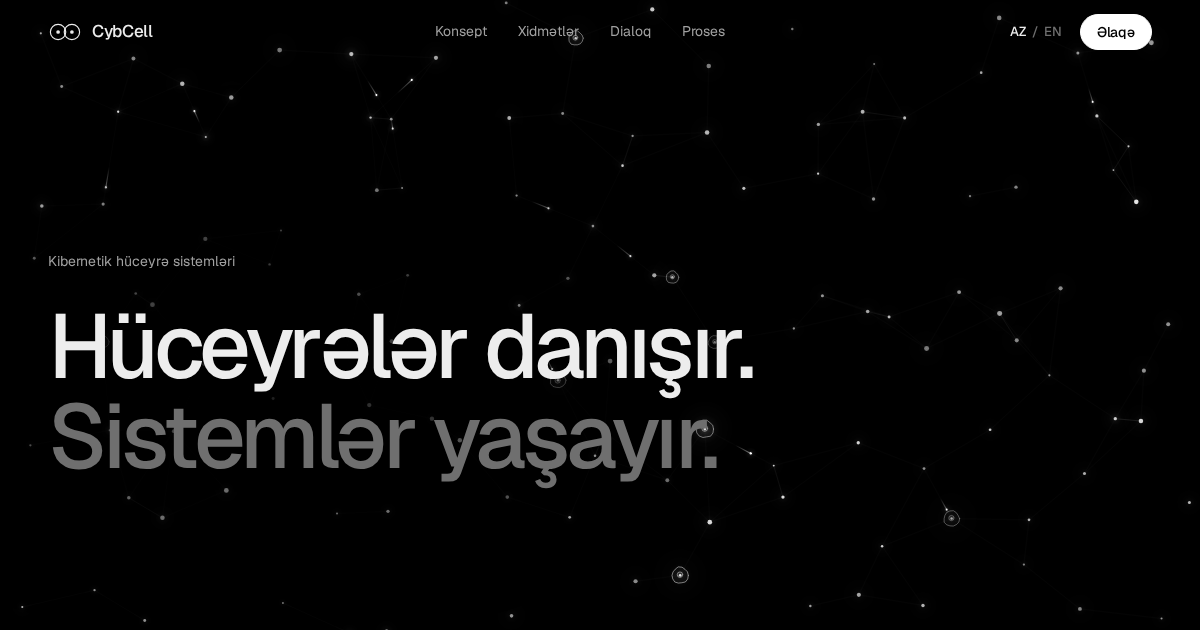
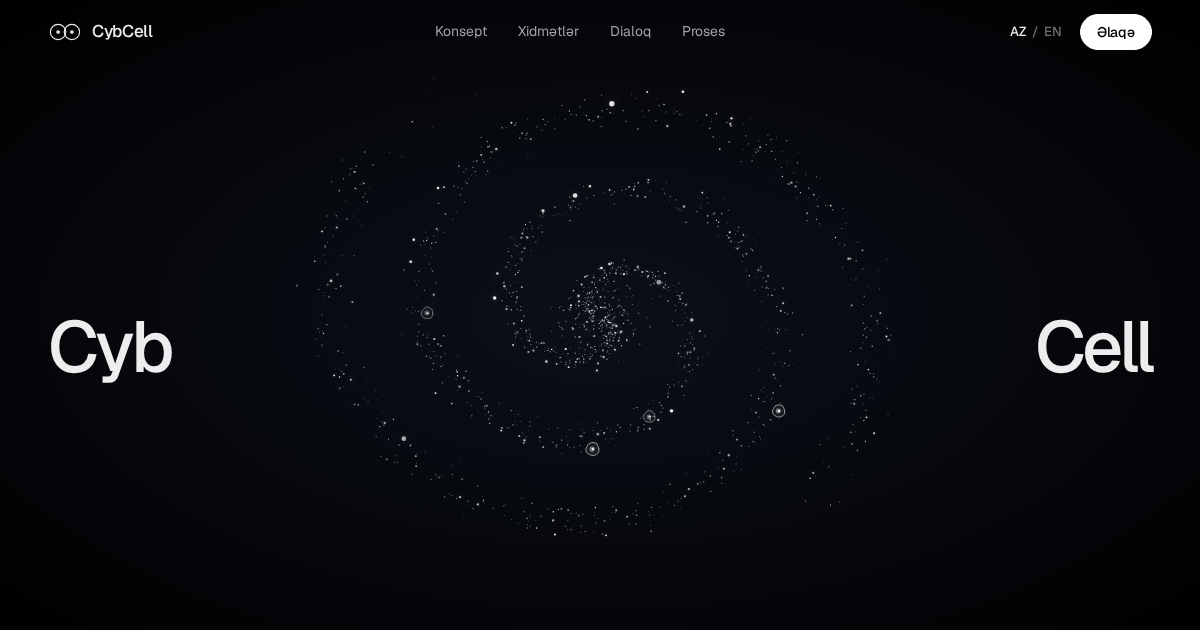
Giriş: hüceyrələrdən yaranan spiral, iki tərəfdə Cyb və Cell
- Hero səhnəsi: hüceyrələr və 1500 nöqtəlik "ulduz tozu" yavaş fırlanan
  iki qollu spiral qurur; sürüşdürəndə spiral dağılıb koloniyaya keçir
- Başlıq ekranın iki tərəfində: solda "Cyb", sağda "Cell"
- Arxa fonda dərin, azca göyümtül qara parıltı

Claude-Session: https://claude.ai/code/session_01Bo7EnscsKfWVouZf1NahH9

diff --git a/src/styles.css b/src/styles.css
@@ -47,7 +47,8 @@ html {
 
 body {
   margin: 0;
-  background: var(--bg);
+  /* A faint deep-space glow behind the colony; opaque sections cover it later. */
+  background: radial-gradient(ellipse 70% 70% at 50% 50%, #0b0f18 0%, #06080d 55%, #000 100%) fixed var(--bg);
   color: var(--text);
   font-family: var(--f-sans);
   font-size: 1rem;
@@ -327,6 +328,7 @@ html[lang='en'] .lang [data-l='en'] {
 
 /* ------------------------------------------------------------------- hero */
 
+/* The colony turns in the middle; the name stands on either side of it. */
 .hero {
   position: relative;
   display: grid;
@@ -334,54 +336,77 @@ html[lang='en'] .lang [data-l='en'] {
   min-height: 100svh;
   padding-top: var(--nav-h);
 }
-.hero::before {
-  content: '';
-  position: absolute;
-  inset: 0;
-  z-index: -1;
-  background: radial-gradient(ellipse 58% 62% at 22% 58%, rgba(0, 0, 0, 0.92), rgba(0, 0, 0, 0) 72%);
+.hero__title {
+  position: relative;
+  align-self: center;
+  display: flex;
+  justify-content: space-between;
+  align-items: center;
+  width: 100%;
+  max-width: 1480px;
+  margin-inline: auto;
+  padding-inline: var(--gutter);
+  font-weight: 500;
+  font-size: clamp(3rem, 1.5rem + 4vw, 6rem);
+  line-height: 1;
+  letter-spacing: -0.045em;
   pointer-events: none;
 }
-.hero__inner {
-  align-self: center;
-  display: grid;
-  justify-items: start;
-  gap: 28px;
-  padding-top: 6vh;
+.hero__word {
+  opacity: 0;
+  animation: word-in 1.6s var(--ease) 0.9s forwards;
 }
-.hero__title {
-  display: grid;
-  font-weight: 500;
-  font-size: var(--t-hero);
-  line-height: 1;
-  letter-spacing: -0.05em;
-  text-wrap: balance;
+.hero__word--r {
+  animation-delay: 1.1s;
+}
+.visually-hidden {
+  position: absolute;
+  width: 1px;
+  height: 1px;
+  overflow: hidden;
+  clip-path: inset(50%);
+  white-space: nowrap;
+}
+.hero__foot {
+  max-width: 1480px;
+  display: flex;
+  flex-wrap: wrap;
+  align-items: flex-end;
+  justify-content: space-between;
+  gap: 20px 32px;
+  padding-block: 32px;
+}
+.hero__lede {
+  font-size: var(--t-lede);
+  letter-spacing: -0.01em;
 }
 .line--dim {
   color: var(--faint);
-}
-.hero__lede {
-  max-width: 36rem;
-  font-size: var(--t-lede);
-  line-height: 1.5;
-  color: var(--mute);
-  text-wrap: pretty;
 }
 .hero__actions {
   display: flex;
   flex-wrap: wrap;
   gap: 12px;
-  margin-top: 8px;
 }
-.hero__foot {
-  display: flex;
-  justify-content: space-between;
-  gap: 24px;
-  padding-block: 28px;
+@keyframes word-in {
+  from {
+    opacity: 0;
+    filter: blur(8px);
+  }
+  to {
+    opacity: 1;
+    filter: none;
+  }
 }
-.hint {
-  font-size: 0.8125rem;
-  color: var(--faint);
+@media (max-width: 820px) {
+  .hero__title {
+    flex-direction: column;
+    align-items: stretch;
+    gap: 62vw;
+  }
+  .hero__word--r {
+    text-align: right;
+  }
 }
 
 /* ------------------------------------------------------------------- name */
@@ -1125,9 +1150,7 @@ html[lang='en'] .lang [data-l='en'] {
   .rail {
     display: none;
   }
-  .hero::before {
-    background: radial-gradient(ellipse 120% 70% at 30% 58%, rgba(0, 0, 0, 0.92), rgba(0, 0, 0, 0) 78%);
-  }
+  
 
   /* Chapters: visual on top, text pinned in a panel at the bottom. */
   .chapter,
@@ -1200,7 +1223,5 @@ html[lang='en'] .lang [data-l='en'] {
   .footer__top {
     grid-template-columns: repeat(2, minmax(0, 1fr));
   }
-  .hint--end {
-    display: none;
-  }
+
 }

diff --git a/src/engine/cells.ts b/src/engine/cells.ts
@@ -158,6 +158,53 @@ export class CellEngine {
   }
 
   /** Current weight (0..1) of a given scene in the blend. */
+  private dust: { u: number; arm: number; j: number; rj: number; s: number; a: number }[] = [];
+
+  private spiralR() {
+    return Math.min(this.w * (this.mobile ? 0.46 : 0.3), this.h * 0.46);
+  }
+
+  private spin() {
+    return this.reduced ? 0 : this.time * 0.035;
+  }
+
+  /** Fine stardust along the spiral arms, drawn only in the hero. */
+  private drawDust(weight: number) {
+    if (weight < 0.01) return;
+    if (!this.dust.length) {
+      const r = rng(0x5eed);
+      for (let k = 0; k < 1500; k++) {
+        const bulge = k < 260;
+        const u = bulge ? Math.abs(r() - r()) * 0.18 : Math.pow(r(), 0.8);
+        this.dust.push({
+          u,
+          arm: k % 2,
+          j: bulge ? r() * TAU : (r() + r() + r() - 1.5) * 0.32,
+          rj: (r() + r() - 1) * 0.1,
+          s: r() < 0.06 ? 1.8 : 0.6 + r() * 0.8,
+          a: 0.25 + r() * 0.75,
+        });
+      }
+    }
+    const ctx = this.ctx;
+    const R = this.spiralR();
+    const cx = this.w / 2;
+    const cy = this.h / 2;
+    const sp = this.spin();
+    const tw = this.reduced ? 0 : this.time;
+    ctx.fillStyle = '#fff';
+    for (let k = 0; k < this.dust.length; k++) {
+      const d = this.dust[k];
+      const th = d.arm * Math.PI + d.u * Math.PI * 3.1 + sp + d.j;
+      const rr = R * (0.02 + 0.98 * d.u) * (1 + d.rj);
+      const x = cx + Math.cos(th) * rr;
+      const y = cy + Math.sin(th) * rr * 0.92;
+      ctx.globalAlpha = weight * d.a * (0.75 + 0.25 * Math.sin(tw * 1.3 + k));
+      ctx.fillRect(x - d.s / 2, y - d.s / 2, d.s, d.s);
+    }
+    ctx.globalAlpha = 1;
+  }
+
   weight(id: SceneId) {
     const { a, b, t } = this.blend();
     const k = SCENES.indexOf(id);
@@ -466,12 +513,24 @@ export class CellEngine {
     const divCount = (q: number) => Math.min(2 ** Math.min(Math.floor(q * 7), 6), this.cells.length);
 
     return [
-      // hero — a calm colony spread across the screen
+      // hero — the colony as a slowly turning two-armed spiral, like a galaxy
       {
-        fn: (c, _i, _q, out) => scatter(c, out, 0.9, 1, 0),
-        link: () => this.heroSpacing * 1.55,
-        linkAlpha: 0.5,
-        rate: () => 12,
+        fn: (c, i, _q, out) => {
+          const n = this.cells.length;
+          const u = Math.pow((i + 0.5) / n, 0.85);
+          const arm = i % 2;
+          const R = this.spiralR();
+          const th = arm * Math.PI + u * Math.PI * 3.1 + this.spin() + (c.seed - 0.5) * 0.35;
+          const rr = R * (0.06 + 0.94 * u) * (1 + (c.seed2 - 0.5) * 0.16);
+          out.x = this.w / 2 + Math.cos(th) * rr;
+          out.y = this.h / 2 + Math.sin(th) * rr * 0.92;
+          out.r = c.baseR * (c.tint ? 0.75 : 0.55);
+          out.a = 0.55 + 0.45 * c.seed2;
+          out.heat = 0;
+        },
+        link: () => 0,
+        linkAlpha: 0,
+        rate: () => 0,
       },
       // name — colony dims and leans toward the centre
       {
@@ -830,6 +889,7 @@ export class CellEngine {
     const cells = this.cells;
     ctx.setTransform(this.dpr, 0, 0, this.dpr, 0, 0);
     ctx.clearRect(0, 0, this.w, this.h);
+    this.drawDust(this.weight('hero'));
 
     // Links, bucketed by alpha so each bucket is a single stroke.
     const BUCKETS = 8;

diff --git a/index.html b/index.html
@@ -67,23 +67,17 @@
     <main id="main">
       <!-- HERO -->
       <section class="hero" id="top" data-scene="hero">
-        <div class="wrap hero__inner">
-          <p class="eyebrow" data-i18n="hero.eyebrow">Kibernetik hüceyrə sistemləri</p>
-          <h1 class="hero__title">
-            <span class="line" data-i18n="hero.l1">Hüceyrələr danışır.</span>
-            <span class="line line--dim" data-i18n="hero.l2">Sistemlər yaşayır.</span>
-          </h1>
-          <p class="hero__lede" data-i18n="hero.lede">
-            CybCell rəqəmsal sistemləri canlı orqanizm kimi qurur. Hər modul müstəqil qərar verir, qonşuları ilə danışır və bütün sistemi qoruyur.
-          </p>
+        <h1 class="hero__title">
+          <span class="hero__word hero__word--l">Cyb</span>
+          <span class="hero__word hero__word--r">Cell</span>
+          <span class="visually-hidden" data-i18n="hero.l1">Hüceyrələr danışır.</span>
+        </h1>
+        <div class="wrap hero__foot">
+          <p class="hero__lede"><span data-i18n="hero.l1b">Hüceyrələr danışır.</span> <span class="line--dim" data-i18n="hero.l2">Sistemlər yaşayır.</span></p>
           <div class="hero__actions">
             <a class="btn" href="#contact" data-i18n="hero.cta">Layihəni başlat</a>
             <a class="btn btn--ghost" href="#concept" data-i18n="hero.cta2">Necə işləyir</a>
           </div>
-        </div>
-        <div class="wrap hero__foot">
-          <p class="hint" data-i18n="hero.hint">Ekrana toxunun, hüceyrələr cavab verəcək</p>
-          <p class="hint hint--end" data-i18n="hero.scroll">Aşağı sürüşdürün</p>
         </div>
       </section>
 

diff --git a/src/i18n.ts b/src/i18n.ts
@@ -20,6 +20,7 @@ const en: Record<string, string> = {
 
   'hero.eyebrow': 'Cybernetic cell systems',
   'hero.l1': 'Cells talk.',
+  'hero.l1b': 'Cells talk.',
   'hero.l2': 'Systems live.',
   'hero.lede':
     'CybCell builds digital systems the way nature builds organisms. Every module makes its own decisions, talks to its neighbours and protects the whole.',
